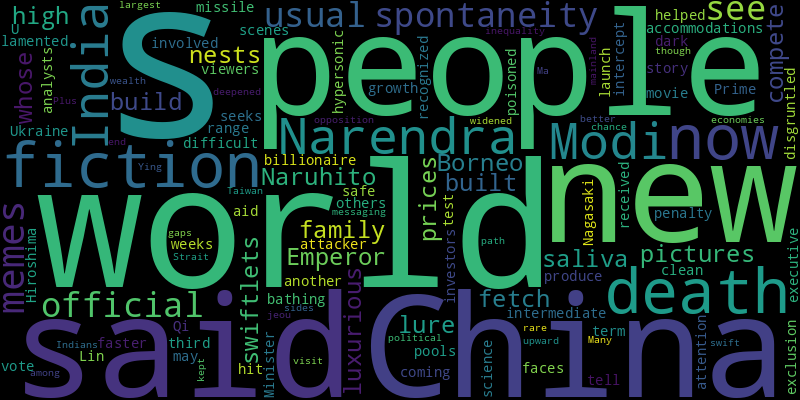
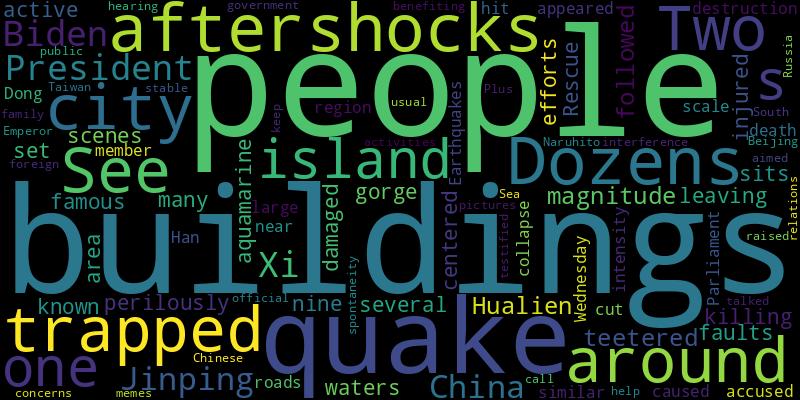
chore(bot): 💩 auto commit

diff --git a/README.md b/README.md
@@ -2,41 +2,41 @@
 Auto RSS New York Times and Generate Word Cloud
 
 ## New York Times Global News
-* The aid group, founded by the chef José Andrés, has made bold moves in Gaza, like building a jetty for deliveries by sea. The Israeli military said it was investigating.
-* President Ebrahim Raisi of Iran said on Tuesday the strike, which killed three top commanders, was an “in brazen violation of international law.”
-* Kyiv is aiming to build its own weapons to bring the fight to Russia. But it will take time Ukraine might not have.
-* To lure swiftlets, whose saliva-built nests fetch high prices in China, people in Borneo compete to build them the most luxurious accommodations: safe, clean, dark and with pools for bathing.
+* The killings were “a grave mistake,” the Israeli military chief of staff said in an unusually direct acknowledgment of fault. The strike prompted aid agencies to reassess their operations in Gaza.
 * Al-Shifa Hospital lies in ruins after a battle there between Israeli soldiers and Gazan gunmen. Shortly before withdrawing, the Israeli military brought journalists from The Times to witness the damage.
-* The test, analysts said, may have involved a new intermediate-range hypersonic missile that is faster to launch and more difficult to intercept.
-* The area around Bolzano has a thick network of family support provided by the government. That means a steady birthrate in a country facing a demographic plunge.
-* Adisson Pierre Maalouf, who is from Georgia, was kidnapped two weeks ago by a gang leader after traveling to Haiti.
-* A raft of local election victories by rivals of President Recep Tayyip Erdogan’s governing party could serve as a check on his power.
-* A rare visit to mainland China by Ma Ying-jeou, who’s now in the opposition, is a chance for political messaging on both sides of the Taiwan Strait.
+* The earthquake was the most powerful to hit the island in 25 years. Dozens of people remained trapped, and many buildings were damaged, with the worst centered in the city of Hualien.
+* See scenes from around the island.
+* In competitions like the Premier League, Muslim pros who once faced pressure to avoid daily fasts during the monthlong holiday now benefit from custom diets and in-game breaks.
+* When Britain cut back a planned high-speed rail line, some residents on the route were pleased. They’re less delighted with what happened next.
+* The idea of requiring more men to join the fight against Russia’s invasion has become toxic politically, but Russia is not relenting in its assault.
+* An influx of exiled Russian activists and refugees from Ukraine and Belarus is stirring fears in a country that fought to preserve its language and culture under Soviet occupation.
+* The law, which includes the death penalty as a punishment in some cases, has been strongly condemned, including by the United States.
+* Senegal’s new president, Bassirou Diomaye Faye, took the oath of office in Tuesday’s ceremony. Close behind him sat the popular opposition leader who had clinched the win.
 
 ![Global](./global.png)
 ## New York Times United States News
+* A rush of precipitation lifted the state to its second straight year with above-average snowfall, though Gov. Gavin Newsom warned residents not to grow used to it.
+* While off-the-court drama has raged in the women’s tournament, Clark and Iowa dispatched with their foils from last season en route to the Final Four.
 * Rulings allowing a strict abortion ban, along with a ballot question on expanding abortion access, may inject new life into Democratic campaigns in the state.
-* About 2,000 motorists, mostly tourists, were stuck in the area on Saturday night after a section of Highway 1 fell into the ocean. No injuries were reported.
-* The victims, the history, the void. Residents reflect on their collective pain, and the city’s strength.
-* Tony Thornton looks ahead to years of crowded tunnels and highways with the loss of the Francis Scott Key Bridge.
-* The congressman’s campaign said it had more than $9.6 million cash on hand as it looks toward a fall race against Kari Lake, a Trump ally, who has yet to announce first-quarter fund-raising figures.
-* Kyiv is aiming to build its own weapons to bring the fight to Russia. But it will take time Ukraine might not have.
-* If Col. Matthew S. Fitzgerald meets his goal, the trial would start a quarter century after the terrorist attack that killed 17 U.S. sailors off Yemen.
-* Have you got the Biden-Trump blues?
-* Escaping injury in the Japanese attack on the ship in Pearl Harbor on Dec. 7, 1941, he went on to help in recovering bodies and putting out fires.
-* Even before the skies opened up on children rolling eggs down a soggy South Lawn, the 146-year-old tradition was caught up in the latest partisan storm.
+* A pandemic boom drew people to Colorado and nearby states. But that has meant record-high property tax hikes for many of those already there.
+* The push for a quick decision on one of the former president’s most far-fetched claims is an unusual and risky move in a case Judge Aileen Cannon has allowed to become bogged down.
+* Nikki Haley drew a notable slice of Republican voters in four states, while protest votes against the president over his support for Israel continued.
+* President Biden is restoring resources and staffing for the refugee program, which was gutted during the Trump administration.
+* Wisconsin’s Republican-led Legislature proposed changing the State Constitution to restrict private funding and staffing of election offices.
+* The C.I.A. told Russia that Islamic State terrorists were plotting an attack on Crocus City Hall, a concert venue.
+* Two rulings on abortion by the Florida Supreme Court shook up the race in Donald Trump’s home state and present a potential new vulnerability for his campaign.
 
 ![US](./usnews.png)
 ## New York Times Asia News
+* The magnitude-7.4 quake was followed by over 100 aftershocks. Dozens of people were trapped. Two buildings in the city of Hualien teetered perilously.
+* The quake set off aftershocks and damaged dozens of buildings, killing nine people and leaving many injured or trapped.
+* The area, known for a famous gorge and aquamarine waters, sits on several active faults.
+* See scenes from around the island.
+* Rescue efforts in the city were centered on two buildings, one of which appeared near collapse. Some roads to the region were cut off.
+* Earthquakes of similar intensity to the one that hit the island on Wednesday have caused large-scale death and destruction.
+* Han Dong, a member of Parliament who is accused of benefiting from the Chinese government’s help, testified at a public hearing on foreign interference.
+* Plus, President Biden talked to Xi Jinping.
+* President Biden aimed to keep relations stable in a call with Xi Jinping of China, but also raised concerns over Beijing’s activities around Taiwan, the South China Sea and Russia.
 * No memes or spontaneity to see here, people. Just the usual official pictures of Emperor Naruhito and his family.
-* To lure swiftlets, whose saliva-built nests fetch high prices in China, people in Borneo compete to build them the most luxurious accommodations: safe, clean, dark and with pools for bathing.
-* The test, analysts said, may have involved a new intermediate-range hypersonic missile that is faster to launch and more difficult to intercept.
-* Also, the U.S. could vote on aid to Ukraine in the coming weeks.
-* Lin Qi, a billionaire who helped produce the science-fiction hit, was poisoned to death by a disgruntled executive. His attacker now faces the death penalty.
-* While some viewers lamented the movie’s exclusion of scenes from Hiroshima or Nagasaki, others said they recognized that it had another story to tell.
-* As Prime Minister Narendra Modi seeks a third term, India’s growth has received the attention of the world’s investors but inequality has deepened.
-* Narendra Modi has kept India on its swift upward path among the world’s largest economies. Many Indians are better off, though wealth gaps have widened.
-* A rare visit to mainland China by Ma Ying-jeou, who’s now in the opposition, is a chance for political messaging on both sides of the Taiwan Strait.
-* Plus, the new end-of-the-world fiction.
 
 ![Asian](./asian.png)
